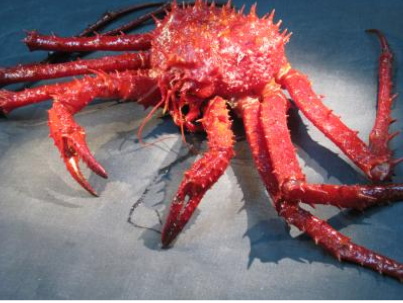
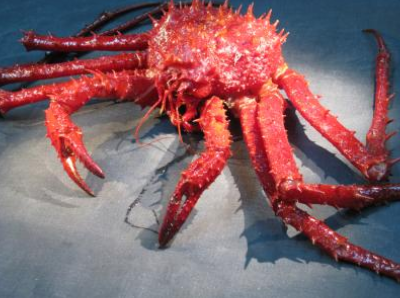
Add background sea

Changed region(s): [[0.0, 0.0, 1.0, 1.0], [0.96, 0.302, 0.99, 0.3322], [0.27, 0.4832, 0.3, 0.5134]]

diff --git a/index.html b/index.html
@@ -176,7 +176,86 @@
     </div> <!-- #services -->
 
     <!-- PRODUCTS -->
-    <div id="products" style="position: relative;">
+    <div id="products" class="ocean" style="position: relative;">
+
+        <div class="bubble-overall bubble bubble--1"></div>
+        <div class="bubble-overall bubble bubble--2"></div>
+        <div class="bubble-overall bubble bubble--3"></div>
+        <div class="bubble-overall bubble bubble--4"></div>
+        <div class="bubble-overall bubble bubble--5"></div>
+        <div class="bubble-overall bubble bubble--6"></div>
+        <div class="bubble-overall bubble bubble--7"></div>
+        <div class="bubble-overall bubble bubble--8"></div>
+        <div class="bubble-overall bubble bubble--9"></div>
+        <div class="bubble-overall bubble bubble--10"></div>
+        <div class="bubble-overall bubble bubble--11"></div>
+        <div class="bubble-overall bubble bubble--12"></div>
+
+        <div class="bubble-overall bubble1 bubble--1"></div>
+        <div class="bubble-overall bubble1 bubble--2"></div>
+        <div class="bubble-overall bubble1 bubble--3"></div>
+        <div class="bubble-overall bubble1 bubble--4"></div>
+        <div class="bubble-overall bubble1 bubble--5"></div>
+        <div class="bubble-overall bubble1 bubble--6"></div>
+        <div class="bubble-overall bubble1 bubble--7"></div>
+        <div class="bubble-overall bubble1 bubble--8"></div>
+        <div class="bubble-overall bubble1 bubble--9"></div>
+        <div class="bubble-overall bubble1 bubble--10"></div>
+        <div class="bubble-overall bubble1 bubble--11"></div>
+        <div class="bubble-overall bubble1 bubble--12"></div>
+
+        <div class="bubble-overall bubble2 bubble--1"></div>
+        <div class="bubble-overall bubble2 bubble--2"></div>
+        <div class="bubble-overall bubble2 bubble--3"></div>
+        <div class="bubble-overall bubble2 bubble--4"></div>
+        <div class="bubble-overall bubble2 bubble--5"></div>
+        <div class="bubble-overall bubble2 bubble--6"></div>
+        <div class="bubble-overall bubble2 bubble--7"></div>
+        <div class="bubble-overall bubble2 bubble--8"></div>
+        <div class="bubble-overall bubble2 bubble--9"></div>
+        <div class="bubble-overall bubble2 bubble--10"></div>
+        <div class="bubble-overall bubble2 bubble--11"></div>
+        <div class="bubble-overall bubble2 bubble--12"></div>
+
+        <div class="bubble-overall bubble3 bubble--1"></div>
+        <div class="bubble-overall bubble3 bubble--2"></div>
+        <div class="bubble-overall bubble3 bubble--3"></div>
+        <div class="bubble-overall bubble3 bubble--4"></div>
+        <div class="bubble-overall bubble3 bubble--5"></div>
+        <div class="bubble-overall bubble3 bubble--6"></div>
+        <div class="bubble-overall bubble3 bubble--7"></div>
+        <div class="bubble-overall bubble3 bubble--8"></div>
+        <div class="bubble-overall bubble3 bubble--9"></div>
+        <div class="bubble-overall bubble3 bubble--10"></div>
+        <div class="bubble-overall bubble3 bubble--11"></div>
+        <div class="bubble-overall bubble3 bubble--12"></div>
+
+        <div class="bubble-overall bubble4 bubble--1"></div>
+        <div class="bubble-overall bubble4 bubble--2"></div>
+        <div class="bubble-overall bubble4 bubble--3"></div>
+        <div class="bubble-overall bubble4 bubble--4"></div>
+        <div class="bubble-overall bubble4 bubble--5"></div>
+        <div class="bubble-overall bubble4 bubble--6"></div>
+        <div class="bubble-overall bubble4 bubble--7"></div>
+        <div class="bubble-overall bubble4 bubble--8"></div>
+        <div class="bubble-overall bubble4 bubble--9"></div>
+        <div class="bubble-overall bubble4 bubble--10"></div>
+        <div class="bubble-overall bubble4 bubble--11"></div>
+        <div class="bubble-overall bubble4 bubble--12"></div>
+
+        <div class="bubble-overall bubble5 bubble--1"></div>
+        <div class="bubble-overall bubble5 bubble--2"></div>
+        <div class="bubble-overall bubble5 bubble--3"></div>
+        <div class="bubble-overall bubble5 bubble--4"></div>
+        <div class="bubble-overall bubble5 bubble--5"></div>
+        <div class="bubble-overall bubble5 bubble--6"></div>
+        <div class="bubble-overall bubble5 bubble--7"></div>
+        <div class="bubble-overall bubble5 bubble--8"></div>
+        <div class="bubble-overall bubble5 bubble--9"></div>
+        <div class="bubble-overall bubble5 bubble--10"></div>
+        <div class="bubble-overall bubble5 bubble--11"></div>
+        <div class="bubble-overall bubble5 bubble--12"></div>
+
         <!-- <div class="canvas-container">
             <canvas width="1899" height="922"
                 style="border: 0px; margin: 0px; padding: 0px; top: 0px; left: 0px; width: 100%; height: 100%;"></canvas>
@@ -567,6 +646,7 @@
                 </div>
             </div>
         </div>
+    </div>
 </body>
 
 <script src="js/vendor/jquery-1.10.1.min.js"></script>

diff --git a/css/style.css b/css/style.css
@@ -71,7 +71,7 @@ p {
 }
 
 .fact {
-    width: 70%;
+    width: 80%;
     padding: 10px;
     border: 1px solid #696969;
     border-radius: 25px;
@@ -82,6 +82,7 @@ p {
 
 .fact p {
     margin: 0;
+    color: #fff;
 }
 
 .animate-fact {
@@ -149,9 +150,173 @@ p {
     transform: none;
 }
 
-#products {
-    background: linear-gradient(30deg,#000, #0074d9, #36c5ffba  )
+
+.ocean {
+    position: relative;
+    background-image: linear-gradient(0deg, #182848, #2980b9)
 }
+
+.bubble-overall {
+    width: 30px;
+    height: 30px;
+    border-radius: 100%;
+    position: absolute;
+    background-color: white;
+    opacity: 0.2;
+    animation: bubble 15s ease-in-out infinite,
+        sideWays 4s ease-in-out infinite alternate;
+}
+
+.bubble {
+    top: 1000px;
+}
+
+.bubble1 {
+    top: 2000px;
+}
+
+.bubble2 {
+    top: 3000px;
+}
+
+.bubble3 {
+    top: 4000px;
+}
+
+.bubble4 {
+    top: 5000px;
+}
+
+.bubble5 {
+    top: 6000px;
+}
+.bubble6 {
+    top: 7500px;
+}
+
+
+@keyframes bubble {
+    0% {
+        transform: translateY(0%);
+        opacity: 0.06;
+    }
+
+    100% {
+        transform: translateY(-120vh);
+    }
+}
+
+@keyframes sideWays {
+    0% {
+        margin-left: 0px;
+    }
+
+    100% {
+        margin-left: 200px;
+    }
+}
+
+.bubble--1 {
+    left: 10%;
+    animation-delay: 0.5s;
+    animation-duration: 16s;
+    opacity: 0.2;
+}
+
+.bubble--2 {
+    width: 15px;
+    height: 15px;
+    left: 40%;
+    animation-delay: 1s;
+    animation-duration: 10s;
+    opacity: 0.1;
+}
+
+.bubble--3 {
+    width: 10px;
+    height: 10px;
+    left: 30%;
+    animation-delay: 5s;
+    animation-duration: 20s;
+    opacity: 0.3;
+}
+
+.bubble--4 {
+    width: 25px;
+    height: 25px;
+    left: 40%;
+    animation-delay: 8s;
+    animation-duration: 17s;
+    opacity: 0.2;
+}
+
+.bubble--5 {
+    width: 30px;
+    height: 30px;
+    left: 60%;
+    animation-delay: 10s;
+    animation-duration: 15s;
+    opacity: 0.1;
+}
+
+.bubble--6 {
+    width: 10px;
+    height: 10px;
+    left: 80%;
+    animation-delay: 3s;
+    animation-duration: 30s;
+    opacity: 0.4;
+}
+
+.bubble--7 {
+    width: 15px;
+    height: 15px;
+    left: 90%;
+    animation-delay: -7s;
+    animation-duration: 25s;
+    opacity: 0.3;
+}
+
+.bubble--9 {
+    width: 20px;
+    height: 20px;
+    left: 50%;
+    bottom: 30px;
+    animation-delay: -5s;
+    animation-duration: 19s;
+    opacity: 0.2;
+}
+
+.bubble--10 {
+    width: 40px;
+    height: 40px;
+    left: 30%;
+    bottom: 30px;
+    animation-delay: -21s;
+    animation-duration: 16s;
+    opacity: 0.3;
+}
+
+.bubble--11 {
+    width: 30px;
+    height: 30px;
+    left: 60%;
+    bottom: 30px;
+    animation-delay: -13.75s;
+    animation-duration: 20s;
+    opacity: 0.3;
+}
+
+.bubble--11 {
+    width: 25px;
+    height: 25px;
+    left: 90%;
+    bottom: 30px;
+    animation-delay: -10.5s;
+    animation-duration: 19s;
+    opacity: 0.3;
+}
+
 .appear2.inview2:nth-child(1) {
     -webkit-transition-delay: 0.1s;
     transition-delay: 0.1s;
@@ -259,6 +424,7 @@ p {
     margin: 0 auto;
     width: 450px;
 }
+
 .typewriter h1 {
     overflow: hidden;
     color: #fff;
